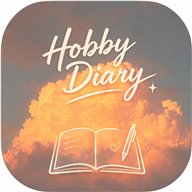
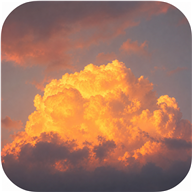
v1.11.3：应用图标换成新封面，修复日历照片预览
使用 icons/hobby diary.png（用户新增的封面图）重新生成应用图标 icon-192/512

修复日历详情照片无法预览：点击日期/切换月份后补加载照片；测试覆盖点选日期后照片显示

diff --git a/app.js b/app.js
@@ -6,7 +6,7 @@ const STORAGE_KEY = 'hobby-diary:v1';
 const THEME_KEY = 'hobby-diary:theme';
 const FOCUS_KEY = 'hobby-diary:focus-session';
 const UPDATE_DISMISS_KEY = 'hobby-diary:update-dismissed';
-const APP_VERSION = '1.11.2';
+const APP_VERSION = '1.11.3';
 const WEEKDAYS = ['日', '一', '二', '三', '四', '五', '六'];
 const VIEWS = ['today', 'calendar', 'stats', 'hobbies', 'data'];
 const COLOR_PRESETS = ['#FF6B6B', '#F9A825', '#4CAF50', '#26C6DA', '#5C6BC0', '#AB47BC', '#EC407A', '#8D6E63'];
@@ -19,6 +19,7 @@ const MOODS = [
   { v: 5, emoji: '🤩', label: '超棒' }
 ];
 const CHANGELOG = [
+  { v: 'v1.11.3', text: '应用图标换成新封面图片；修复了日历详情里照片无法预览的问题。' },
   { v: 'v1.11.2', text: '应用图标换成 Hobby Diary 封面图片，移除了自定义图标功能；设置页新增存储空间数据条；修复了照片退出后消失的问题。' },
   { v: 'v1.11.1', text: '「数据」页改名「设置」，新增照片空间显示；上传应用图标后可导出文件，用来更换手机桌面图标。' },
   { v: 'v1.11', text: '照片存储升级：照片改存大容量本地数据库，传几十张也没问题；旧照片会自动迁移，不用手动处理。' },
@@ -391,6 +392,7 @@ function renderCalendar() {
     <div class="cal-week">${WEEKDAYS.map(w => `<span>${w}</span>`).join('')}</div>
     <div class="cal-grid">${cells}</div>
     ${detail}`;
+  fillPhotoSrcs(el);
 }
 
 function renderStats() {

diff --git a/index.html b/index.html
@@ -14,7 +14,7 @@
 <link rel="manifest" href="manifest.webmanifest">
 <link rel="icon" id="favicon" href="icons/icon-192.png">
 <link rel="apple-touch-icon" href="icons/icon-192.png">
-<link rel="stylesheet" href="styles.css?v=1.11.2">
+<link rel="stylesheet" href="styles.css?v=1.11.3">
 </head>
 <body>
 <div id="app">
@@ -22,7 +22,7 @@
     <div class="brand">
       <span class="brand-logo" id="brand-logo">🌸</span>
       <div class="brand-text">
-        <h1>Hobby Diary<span class="version-tag" id="version-tag">v1.11.2</span></h1>
+        <h1>Hobby Diary<span class="version-tag" id="version-tag">v1.11.3</span></h1>
         <p id="header-sub"></p>
       </div>
     </div>
@@ -71,6 +71,6 @@
 
 <script src="audio.js"></script>
 <script src="photoStore.js"></script>
-<script src="app.js?v=1.11.2"></script>
+<script src="app.js?v=1.11.3"></script>
 </body>
 </html>

diff --git a/sw.js b/sw.js
@@ -1,11 +1,11 @@
 // sw.js —— Hobby Diary Service Worker：缓存应用静态资源，使应用可离线使用；支持版本更新提示。
-const APP_VERSION = '1.11.2';
+const APP_VERSION = '1.11.3';
 const CACHE_NAME = 'hobby-diary-' + APP_VERSION;
 const ASSETS = [
   './',
   './index.html',
-  './styles.css?v=1.11.2',
-  './app.js?v=1.11.2',
+  './styles.css?v=1.11.3',
+  './app.js?v=1.11.3',
   './photoStore.js',
   './manifest.webmanifest',
   './icons/icon-192.png',

diff --git a/AGENTS.md b/AGENTS.md
@@ -60,6 +60,6 @@ AGENTS.md             本说明
 - 照片先压缩（最长边 1280px、JPEG 0.75）再存入 IndexedDB；记录本身在 localStorage（约 5MB），照片不再占用其空间
 - 换浏览器或清缓存前，提醒用户先在「数据」页导出 JSON 备份
 - 修改代码后先运行 `node --check app.js`，再运行 `node test-check.mjs` 验证再交付
-- 修改应用图标后，需从根目录 `hobby diary.png`（应用封面）重新生成 icons/icon-192.png 与 icon-512.png
+- 修改应用图标后，需从 `icons/hobby diary.png`（用户提供的最新封面）重新生成 icons/icon-192.png 与 icon-512.png
 - 发布新版本时，同步更新以下版本标记（必须一致）：app.js 与 sw.js 中的 `APP_VERSION`、根目录 `version.json`、index.html 与 sw.js ASSETS 中的资源版本参数（如 `?v=1.7`）
 - 版本检查机制：主线程直接读取 `version.json`（带时间戳参数绕过缓存）与本地 `APP_VERSION` 对比，不一致即提示更新；点击横幅后发送 `SKIP_WAITING` 让新 Service Worker 接管并自动刷新，若检测不到等待中的 SW 则直接刷新兜底
